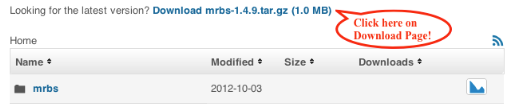
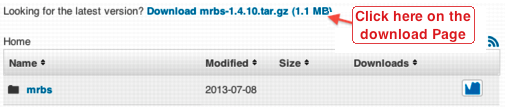
New download image from Dave Carmean

diff --git a/download.php b/download.php
@@ -23,8 +23,10 @@ page_header(NULL, "Download");
   describing what's changed. Just find the latest release and click the
   &quot;Download&quot; link by the &quot;mrbs&quot; package like this :
 </p>
-  <img id="download" src="images/mrbs_download.png"
-   alt="Picture of SF download page" width="505" height="107"> 
+  <a href="http://sourceforge.net/projects/mrbs/files">
+    <img id="download" src="images/mrbs_download.png"
+     alt="Picture of SF download page" width="505" height="107" border=0> 
+  </a>
 <p>
   Alternatively you can get MRBS via SVN,
   instructions are <a href="https://sourceforge.net/p/mrbs/code/">here</a>.
